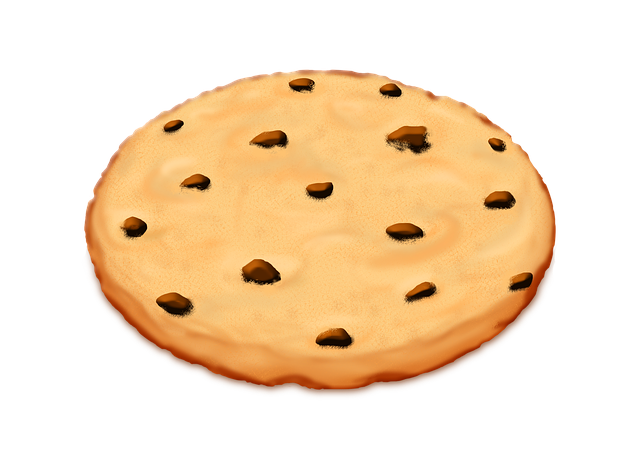
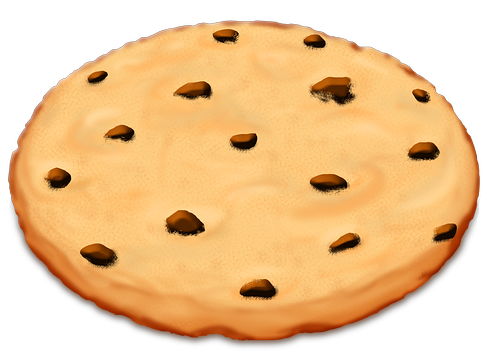
new design update

diff --git a/scriptichrak.js b/scriptichrak.js
@@ -9,8 +9,9 @@
         function update(){
             counterInput.value = counter; 
             document.getElementById("costautoclick").innerHTML  = "Price= " + ((autoClick +1)*20) +  "pts";
+            
             document.getElementById("persecondcookies").innerHTML  = (autoClick + 1) + " point(s)/second";
-            document.getElementById("amountmultiplier2").innerHTML  = " your clicks" + " x" + (multiplier+2);
+            document.getElementById("amountmultiplier").innerHTML  = " your clicks" + " x" + (multiplier+2);
             document.getElementById("costmultiplier").innerHTML  = "Price= " + ((multiplier+2)*10)  + " pts";
             document.getElementById("currentmultiplier").innerHTML  = "your current multiplier is x" + (multiplier);
         }
@@ -20,10 +21,18 @@
         function clickfunction(){
             counter = counter + 1;  
             update();
-            toaddmultipliervaluetoscore();   
+            toaddmultipliervaluetoscore();  
         };
-         
-
+        //Add Hover effect on cookie:
+        imageBtn.onmouseover = function() {mouseOver()};
+            function mouseOver() {
+                imageBtn.style.transform = "scale(1.5)";
+            }
+        imageBtn.onmouseout = function() {mouseOut()};
+        function mouseOut() {
+            imageBtn.style.transform = "none";
+        }
+            
         //Auto-clicker:
         var autoClick = 0;
             
@@ -39,8 +48,13 @@
                 if (counter >= ((autoClick + 1) * 20)) {
                     counter = counter - ((autoClick + 1) * 20);
                     autoClick = autoClick + 1;
+                    document.getElementById("currentpersecondcookies").innerHTML= "Autoclicker is on: " + autoClick + " point(s)/second" ;
+                    btn3colorchange();
                     update();
-                }  
+                }
+                else {
+                    alert("You don't have enough points to buy this improvement!");
+                }      
         }
 
 
@@ -53,15 +67,84 @@
             if(counter >= ((multiplier+2)*10)){
                 counter = counter - ((multiplier+2)*10);
                 multiplier = multiplier+2;
-                }        
+                btn1colorchange();
+                }
+            else {
+                alert("You don't have enough points to buy this improvement!");
+            }        
             update();
         }
-            //To make the multiplier work separately you create this function which add the value of multiplie to each click. I substract -1 because i want to multiply by 3 then 6 then 9. If you take off "-1" it will be times 4, then 6 then 8 everytime you buy. I tried adding this function in 3 different places but it only work the way we want it to, if I put it in click function.
+        //To make the multiplier work separately you create this function which add the value of multiplie to each click. 
         function toaddmultipliervaluetoscore() {
             counter = counter + (multiplier-1); 
             update();
             }
-            
+        
+        //button color change after each buy:
+        //var colors=["#804000","#A06300", "#C08600", "#E0A900", "#FFCC00"];
+        function btn3colorchange(){      
+                
+            if(((autoClick + 1) * 20)<=20){
+                document.getElementById("btn-3").style.backgroundColor= "#804000";
+            }
+            else if(20<((autoClick + 1) * 20) && ((autoClick + 1) * 20) <=40){
+                document.getElementById("btn-3").style.backgroundColor= "#A06300";
+            }
+            else if(40<((autoClick + 1) * 20) && ((autoClick + 1) * 20)<=60){
+                document.getElementById("btn-3").style.backgroundColor= "#C08600";
+            }
+            else if(60<((autoClick + 1) * 20) && ((autoClick + 1) * 20)<=80){
+                document.getElementById("btn-3").style.backgroundColor= "#E0A900";
+            }
+            else{
+                document.getElementById("btn-3").style.backgroundColor= "#FFCC00";
+            }
+        }
+
+        function btn1colorchange(){      
+                
+            if(((multiplier+2)*10)<=30){
+                document.getElementById("btn-1").style.backgroundColor= "#804000";
+            }
+            else if(30<((multiplier+2)*10) && ((multiplier+2)*10) <=50){
+                document.getElementById("btn-1").style.backgroundColor= "#A06300";
+            }
+            else if(50<((multiplier+2)*10) && ((multiplier+2)*10)<=70){
+                document.getElementById("btn-1").style.backgroundColor= "#C08600";
+            }
+            else if(70<((multiplier+2)*10) && ((multiplier+2)*10)<=90){
+                document.getElementById("btn-1").style.backgroundColor= "#E0A900";
+            }
+            else{
+                document.getElementById("btn-1").style.backgroundColor= "#FFCC00";
+            }
+        }
+
+        function btn2colorchange(){      
+                
+            if(((multiplier+2)*10)<=30){
+                document.getElementById("btn-2").style.backgroundColor= "#804000";
+            }
+            else if(30<((multiplier+2)*10) && ((multiplier+2)*10) <=50){
+                document.getElementById("btn-2").style.backgroundColor= "#A06300";
+            }
+            else if(50<((multiplier+2)*10) && ((multiplier+2)*10)<=70){
+                document.getElementById("btn-2").style.backgroundColor= "#C08600";
+            }
+            else if(70<((multiplier+2)*10) && ((multiplier+2)*10)<=90){
+                document.getElementById("btn-2").style.backgroundColor= "#E0A900";
+            }
+            else{
+                document.getElementById("btn-2").style.backgroundColor= "#FFCC00";
+            }
+        }
        
 })();
 
+/*
+//Add Hover effect on cookie when clicked:
+        function mouseOver() {
+            document.getElementById("image").style.height = "220px";
+            //document.getElementById("image").style.width = "auto";
+        } 
+*/

diff --git a/style.css b/style.css
@@ -2,34 +2,41 @@
     font-family: 'Gill Sans', 'Gill Sans MT', Calibri, 'Trebuchet MS', sans-serif;
     font-size: 20px;
 }
-body{
-    background: rgb(255,255,255);
-    background: linear-gradient(90deg, rgba(255,255,255,1) 0%, rgba(248,253,10,0.33967090254070376) 35%, rgba(255,201,4,0.5497549361541492) 100%);
-}
 .container{
     display: grid;
     justify-content: center;
 }
-h3, .instructions{
+h3{
     text-align: center;
+    color: black;
+}
+.instructions{
+    text-align: justify;
+    font-size: 18px;
 }
 .instrbox{
-    border: 2px solid brown;
+    border: 2px solid #804000;
     border-radius: 15px;
-    width: 600px;
+    max-width:  600px;
     padding-left: 10px;
     padding-right: 10px;
+    background: rgb(255,255,255);
+    background: linear-gradient(90deg, rgba(255,255,255,1) 0%, rgba(248,253,10,0.33967090254070376) 35%, rgba(255,201,4,0.5497549361541492) 100%);
 }
-
+b{
+    color: #804000;  
+}
 img{
     width: auto;
-    max-height: 250px;
+    max-height: 200px;
 }
 #imagebtn{
     border: none;
     background-color: transparent;
 }
-
+#counter{
+    border: 2px solid #804000; 
+}
 [class*="row-"]{
     margin-top: 5px;
     padding-top: 5px;
@@ -44,27 +51,58 @@ input{
 }
 [id*="btn-"]{
     height: auto;
-    width:500px;
-    border: 2px solid brown;
-    background-color: brown;
+    width:200px;
+    font-size: 15px;
+    border: none;
+    background-color: #804000;
     border-radius: 15px;
     color: white;
+    text-shadow: 1px 1px black;
+    padding-top: 5px;
+    position: relative;
 }
-[id*="btn-"]:hover{
-    border: 2px solid brown;
-    background-color: white;
-    color: brown;
+[id*="btn-"] .badge {
+    position: absolute;
+    top: -10px;
+    right: -30px;
+    padding: 5px 10px;
+    border-radius: 50px;
+    background: blue;
+    color: white;
+}
+/*[id*="btn-"]:hover{
+    border: 2px solid #ffcc00;
+    background-color: #ffcc00;
+    color: black;
+}*/
+[id*="btn-"] >p, [id*="btn-"] > span{
+    font-size: 15px;
 }
 
-@media only screen and (min-width: 600px) {
+
+/*Responsive:*/
+@media only screen and (min-width: 800px) {
+    body{
+        /*background: rgb(238,174,202);
+        background: radial-gradient(circle, rgba(238,174,202,0.7318277652858018) 0%, rgba(148,187,233,0.4853291658460259) 100%);*/
+        background-image: url(dd.png);
+        background-size:auto;
+        background-repeat: repeat-y;
+        background-position: left;
+        
+    }
     .container{
         grid-template-areas: 
-        "instructions instructions"
-        "image buttons"
-        "scorebox buttons";
+        "instructions instructions update buttons"
+        "instructions instructions image buttons"
+        "instructions instructions scorebox buttons";
+        column-gap: 15px;
+        justify-content: space-around;
+        margin-top: 20px;
     }
     .row-0{ grid-area: instructions;}
     .row-1{grid-area: image;}
+    .row-11{grid-area: update;}
     .row-2{
         grid-area: scorebox;
         display: flex;
@@ -74,10 +112,16 @@ input{
         grid-area: buttons;
         display: flex;
         flex-direction: column;
-        justify-content: center;
     }
-    [class*="col-3"] {
+    [class*="col-3"]{
         padding-right: 20px;
     }
-    
+    [class*="row-"]{
+        margin-top: 0px;
+        padding-top: 0px;
+    }
+    .instrbox{
+        max-width: 300px;
+        height: 600px;
+    }
 }

diff --git a/index.html b/index.html
@@ -10,28 +10,34 @@
     <div class="row-0">  <! -- instructions--> 
         <div class="instrbox">
             <h3>Instructions:</h3>
-            <p class="instructions">Everytime you click on the cookie you will get 1 point. I you want to increase your score faster you can use some of your points to buy improvements (multiplier, bonus or autoclicker).</p>
+            <p class="instructions">Everytime you click on the cookie you will get 1 point. I you want to increase your score faster you can use some of your points (displayed in score box) to buy improvements (multiplier, bonus or autoclicker).</p>
+            <p class="instructions"><b style="font-size: 18px;"> Multiplier:</b> will multiply each click by the number displayed in the button. The first time you buy it will be multiplied by 3. Then the price will increase and so will the multiplier.</p>
+            <p class="instructions"><b style="font-size: 18px;"> Auto-clicker: </b>will allow you to increase your score without you clicking. It starts at 1clic/second, then 2 ...</p>
+            <p class="instructions"><b style="font-size: 18px;"> Bonus: </b>will allow you to increase your score by 200% everytime you click on the cookie during 30seconds.</p>
         </div>
     </div>
+    <div class="row-11"> <! --Update -->
+        <div><p id="currentpersecondcookies"></p></div>
+     </div>
     <div class="row-1"> <! --image cookie -->
-       <button type="button" id="imagebtn" data-min="0"><img src="cookie1.png"></button>
+       <button type="button" id="imagebtn" data-min="0"><img id="image" src="cookie1.png"></button>
     </div>
-    <div class="row-2"> <! -- Counter & score box-->
+    <div class="row-2"> <! -- Score box-->
         <div class="col-s-12 col-3">
             <h3 class="score">Score:</h3>
-            <input type="text" name="scorebox" id="counter" value="00" min="0" />
+            <input type="text" name="scorebox" id="counter" value="0" min="0" />
         </div>
     </div>
     <div class="row-3"> <! --3 buttons --> 
         <h3>Buy improvements:</h3>
         <div class="col-s-12 col-3">
-            <button type="button" id="btn-1"data-min="10">Multiplyer: <span id="amountmultiplier2"> your clicks x3</span><p id="costmultiplier">Price= 30pts</p><p id="currentmultiplier"> your current multiplier is x1</p></button>
+            <button type="button" id="btn-1"data-min="10"><span class="badge">Multiplier</span> <span id="amountmultiplier"> your clicks x3</span><p id="costmultiplier">Price= 30 pts</p><p id="currentmultiplier"> your current multiplier is x1</p></button>
         </div>
         <div class="col-s-12 col-3">
-            <button type="button" id="btn-2"data-min="10">Bonus: </br> Timer</br>Price=10pts</button>
+            <button type="button" id="btn-2"data-min="10"><span class="badge">Bonus</span> <p>Timer</p> <p>Price=10pts</p></button>
         </div>
         <div class="col-s-12 col-3">
-            <button type="button"  id="btn-3" data-min="10">Auto-clicker:<p id="persecondcookies">1 point/second</p><p id="costautoclick"> Price= 20pts</p></button>
+            <button type="button"  id="btn-3" data-min="10"><span class="badge">Auto-clicker</span><p id="persecondcookies">1 point(s)/second</p><p id="costautoclick"> Price= 20pts</p></button>
         </div>
     </div>
 </div>
